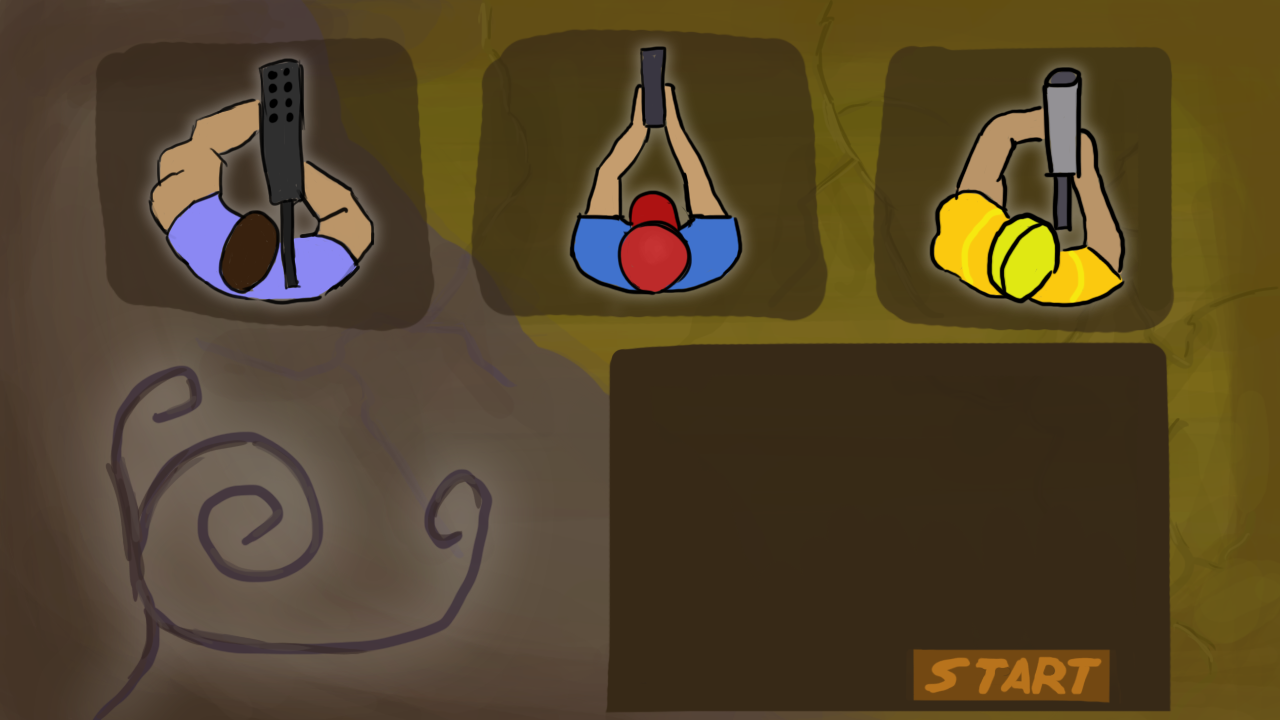
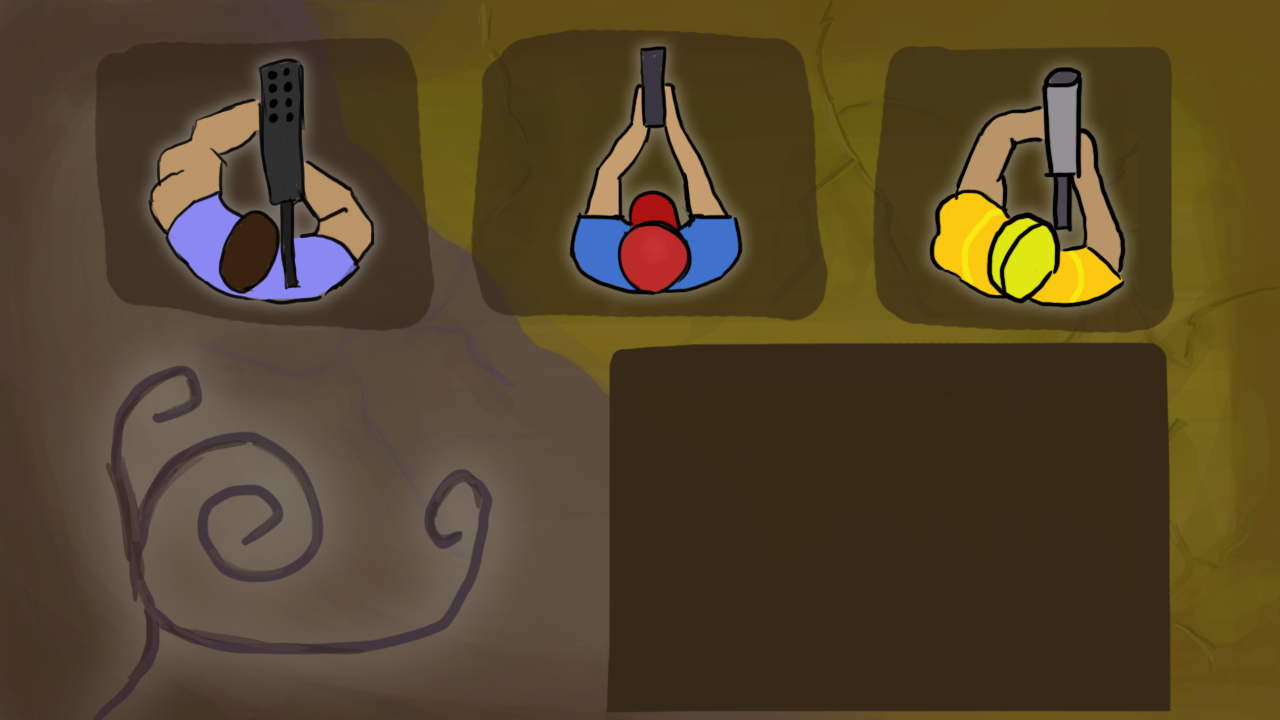
Add map design, update character selection screen

Changed region(s): [[0.6875, 0.8861, 0.875, 0.9778]]

diff --git a/src/Map.java b/src/Map.java
@@ -1,7 +1,97 @@
+import java.awt.Graphics2D;
+import java.util.ArrayList;
 
 public class Map {
 	
+	private ArrayList<Barrier> barriers;
+	
 	public Map(){
+		barriers = new ArrayList<Barrier>();
+		generateMapBarriers();
+	}
+	
+	public void generateMapBarriers(){
+		//Two I shaped on left/right sides
+		barriers.add(new CorruptableBarrier(3, 3, 1, 11));
+		barriers.add(new CorruptableBarrier(28, 3, 1, 11));
+		barriers.add(new CorruptableBarrier(4, 3, 1, 1));
+		barriers.add(new CorruptableBarrier(4, 13, 1, 1));
+		barriers.add(new CorruptableBarrier(27, 3, 1, 1));
+		barriers.add(new CorruptableBarrier(27, 13, 1, 1));
+		barriers.add(new CorruptableBarrier(8, 1, 6, 1));
+		barriers.add(new CorruptableBarrier(18, 1, 6, 1));
+		barriers.add(new CorruptableBarrier(18, 0, 1, 1));
+		barriers.add(new CorruptableBarrier(13, 0, 1, 1));
+		barriers.add(new CorruptableBarrier(8, 15, 6, 1));
+		barriers.add(new CorruptableBarrier(18, 15, 6, 1));
+		barriers.add(new CorruptableBarrier(18, 16, 1, 2));
+		barriers.add(new CorruptableBarrier(13, 16, 1, 2));
 		
+		//Four 2x1s
+		//Left side
+		barriers.add(new BreakableBarrier(6, 6, 1, 1));
+		barriers.add(new BreakableBarrier(6, 10, 1, 1));
+		barriers.add(new BreakableBarrier(7, 6, 1, 1));
+		barriers.add(new BreakableBarrier(7, 10, 1, 1));
+		//Right side
+		barriers.add(new BreakableBarrier(25, 6, 1, 1));
+		barriers.add(new BreakableBarrier(25, 10, 1, 1));
+		barriers.add(new BreakableBarrier(24, 6, 1, 1));
+		barriers.add(new BreakableBarrier(24, 10, 1, 1));
+		
+		//Middle breakable circle
+		//Left side
+		barriers.add(new BreakableBarrier(10, 6, 1, 1));
+		barriers.add(new BreakableBarrier(10, 7, 1, 1));
+		barriers.add(new Barrier(10, 8, 1, 1));
+		barriers.add(new BreakableBarrier(10, 9, 1, 1));
+		barriers.add(new BreakableBarrier(10, 10, 1, 1));
+		barriers.add(new BreakableBarrier(11, 5, 1, 1));
+		barriers.add(new BreakableBarrier(11, 11, 1, 1));
+		//Right side
+		barriers.add(new BreakableBarrier(21, 6, 1, 1));
+		barriers.add(new BreakableBarrier(21, 7, 1, 1));
+		barriers.add(new Barrier(21, 8, 1, 1));
+		barriers.add(new BreakableBarrier(21, 9, 1, 1));
+		barriers.add(new BreakableBarrier(21, 10, 1, 1));
+		barriers.add(new BreakableBarrier(20, 5, 1, 1));
+		barriers.add(new BreakableBarrier(20, 11, 1, 1));
+		
+		//Middle square
+		barriers.add(new CorruptableBarrier(15, 8, 2, 1));
+		barriers.add(new BreakableBarrier(15, 7, 1, 1));
+		barriers.add(new BreakableBarrier(16, 7, 1, 1));
+		barriers.add(new BreakableBarrier(15, 9, 1, 1));
+		barriers.add(new BreakableBarrier(16, 9, 1, 1));
+		
+		//2x1 on top and bottom
+		//Top
+		barriers.add(new BreakableBarrier(12, 2, 1, 1));
+		barriers.add(new BreakableBarrier(11, 2, 1, 1));
+		barriers.add(new BreakableBarrier(19, 2, 1, 1));
+		barriers.add(new BreakableBarrier(20, 2, 1, 1));
+		//Bottom
+		barriers.add(new BreakableBarrier(12, 14, 1, 1));
+		barriers.add(new BreakableBarrier(11, 14, 1, 1));
+		barriers.add(new BreakableBarrier(19, 14, 1, 1));
+		barriers.add(new BreakableBarrier(20, 14, 1, 1));
+	}
+	
+	public void draw(Graphics2D g){
+		for(Barrier b : barriers){
+			b.draw(g);
+		}
+	}
+	
+	public ArrayList<Barrier> getBarriers(){
+		return barriers;
+	}
+	
+	public void addBarrier(Barrier barrier){
+		barriers.add(barrier);
+	}
+	
+	public Barrier getBarrier(int index){
+		return barriers.get(index);
 	}
 }

diff --git a/src/CharacterSelectionScreen.java b/src/CharacterSelectionScreen.java
@@ -28,44 +28,46 @@ public class CharacterSelectionScreen extends JPanel implements MouseListener {
 			int y = e.getY();
 			if(playerNumber == 1){
 				if(x >= 100 && x <= 420 && y >= 45 && y <= 325){
-					main.setPlayer(1, new Tank(1, 9, 0));
+					main.setPlayer(1, new Tank(1, 8, 0));
 					player = (new ImageIcon("assets/character-selection-p2.png")).getImage();
 					repaint();
+					playerNumber++;
 				}
 				else if(x >= 480 && x <= 800 && y >= 45 && y <= 325){
-					main.setPlayer(1, new Damager(1, 9, 0));
+					main.setPlayer(1, new Damager(1, 8, 0));
 					player = (new ImageIcon("assets/character-selection-p2.png")).getImage();
 					repaint();
+					playerNumber++;
 				}
 				else if(x >= 880 && x <= 1160 && y >= 45 && y <= 325){
-					main.setPlayer(1, new Builder(1, 9, 0));
+					main.setPlayer(1, new Builder(1, 8, 0));
 					player = (new ImageIcon("assets/character-selection-p2.png")).getImage();
 					repaint();
+					playerNumber++;
 				}
-				playerNumber++;
 			}
 			else if(playerNumber == 2){
 				if(x >= 100 && x <= 420 && y >= 45 && y <= 325){
-					main.setPlayer(2, new Tank(30, 9, 180));
+					main.setPlayer(2, new Tank(30, 8, 180));
 					player = (new ImageIcon("assets/character-selection-start.png")).getImage();
 					repaint();
+					playerNumber++;
 				}
 				else if(x >= 480 && x <= 800 && y >= 45 && y <= 325){
-					main.setPlayer(2, new Damager(30, 9, 180));
+					main.setPlayer(2, new Damager(30, 8, 180));
 					player = (new ImageIcon("assets/character-selection-start.png")).getImage();
 					repaint();
+					playerNumber++;
 				}
 				else if(x >= 880 && x <= 1160 && y >= 45 && y <= 325){
-					main.setPlayer(2, new Builder(30, 9, 180));
+					main.setPlayer(2, new Builder(30, 8, 180));
 					player = (new ImageIcon("assets/character-selection-start.png")).getImage();
 					repaint();
+					playerNumber++;
 				}
-				playerNumber++;
 			}
-			else{
-				if(x >= 912 && x <= 1112 && y >= 650 && y <= 700){
+			else if(playerNumber == 3){
 					main.changePanel("2");
-				}
 			}
 		}
 	}

diff --git a/src/GamePanel.java b/src/GamePanel.java
@@ -18,12 +18,15 @@ public class GamePanel extends JPanel implements KeyListener, Runnable {
 	private Image background;
 	private ArrayList<Actor> actors;
 	private ArrayList<Projectile> bullets;
+	private Map map;
 	private Player p1, p2;
 	
 	/**
 	 * Creates new GamePanel. Initializes all needed variables
 	 */
 	public GamePanel() {
+		p1 = new Tank(1, 8, 0);
+		p2 = new Tank(30, 8, 0);
 		gameStarted = false;
 		addKeyListener(this);
 		keyPressed = new boolean[10];
@@ -32,14 +35,13 @@ public class GamePanel extends JPanel implements KeyListener, Runnable {
 		bullets = new ArrayList<Projectile>();
 		p1 = new Builder(5, 5, 0);
 		p2 = new Tank(10, 5, 0);
-		actors.add(new Barrier(3, 2, 20, 1));
 		CorruptableBarrier cb = new CorruptableBarrier(3, 3, 20, 1);
-		cb.setCorrupt(true);
-		actors.add(cb);
-		actors.add(new PowerOrbTurret(400, 400, 40, 40));
-		actors.add(new StandardTurret(500, 400, 40, 40));
-		actors.add(new FlowerTurret(300, 400, 40, 40));
-		//new Thread(this).start();
+		//cb.setCorrupt(true);
+		
+		map = new Map();
+		ArrayList<Barrier> barriers = map.getBarriers();
+		for(Barrier b : barriers)
+			actors.add(b);
 	}
 	
 	public void startThread(){

diff --git a/src/BreakableBarrier.java b/src/BreakableBarrier.java
@@ -1,4 +1,5 @@
 import java.awt.Graphics;
+import java.awt.Graphics2D;
 import java.awt.Image;
 
 import javax.swing.ImageIcon;
@@ -19,10 +20,15 @@ public class BreakableBarrier extends Barrier {
 		img = (new ImageIcon("assets/barrier-breakable.png")).getImage();
 	}
 	
+	public void act(){
+		
+	}
+	
 	/**
 	 * Draws barrier onto screen with specified characteristics
 	 */
-	public void draw(Graphics g){
+	@Override
+	public void draw(Graphics2D g){
 		g.drawImage(img, super.getX(), super.getY(), super.getWidth(), super.getHeight(), null);
 	}
 	

diff --git a/src/DamagerBullet.java b/src/DamagerBullet.java
@@ -6,8 +6,8 @@ public class DamagerBullet extends Projectile {
 	public DamagerBullet(int x, int y, double angle){
 		super(x, y, 6, 6);
 		
-		double velX = Math.cos(angle) * super.BULLET_SPEED*3;
-		double velY = -Math.sin(angle) * super.BULLET_SPEED*3;
+		double velX = Math.cos(angle) * super.BULLET_SPEED*12;
+		double velY = -Math.sin(angle) * super.BULLET_SPEED*12;
 		
 		setVelX(velX);
 		setVelY(velY);

diff --git a/src/BuilderBullet.java b/src/BuilderBullet.java
@@ -6,8 +6,8 @@ public class BuilderBullet extends Projectile {
 	public BuilderBullet(int x, int y, double angle){
 		super(x, y, 6, 6);
 		
-		double velX = Math.cos(angle) * super.BULLET_SPEED*2;
-		double velY = -Math.sin(angle) * super.BULLET_SPEED*2;
+		double velX = Math.cos(angle) * super.BULLET_SPEED*6;
+		double velY = -Math.sin(angle) * super.BULLET_SPEED*6;
 		
 		setVelX(velX);
 		setVelY(velY);

diff --git a/src/TankBullet.java b/src/TankBullet.java
@@ -12,8 +12,8 @@ public class TankBullet extends Projectile {
 	public TankBullet(int x, int y, double angle) {
 		super(x, y, 6, 6);
 		
-		double velX = Math.cos(angle) * super.BULLET_SPEED;
-		double velY = -Math.sin(angle) * super.BULLET_SPEED;
+		double velX = Math.cos(angle) * super.BULLET_SPEED*4;
+		double velY = -Math.sin(angle) * super.BULLET_SPEED*4;
 		
 		setVelX(velX);
 		setVelY(velY);

diff --git a/src/Projectile.java b/src/Projectile.java
@@ -2,7 +2,7 @@ import java.awt.Graphics2D;
 
 public class Projectile extends Actor {
 	
-	public static final int BULLET_SPEED = 2;
+	public static final double BULLET_SPEED = 0.2;
 	private double velX;
 	private double velY;
 	
